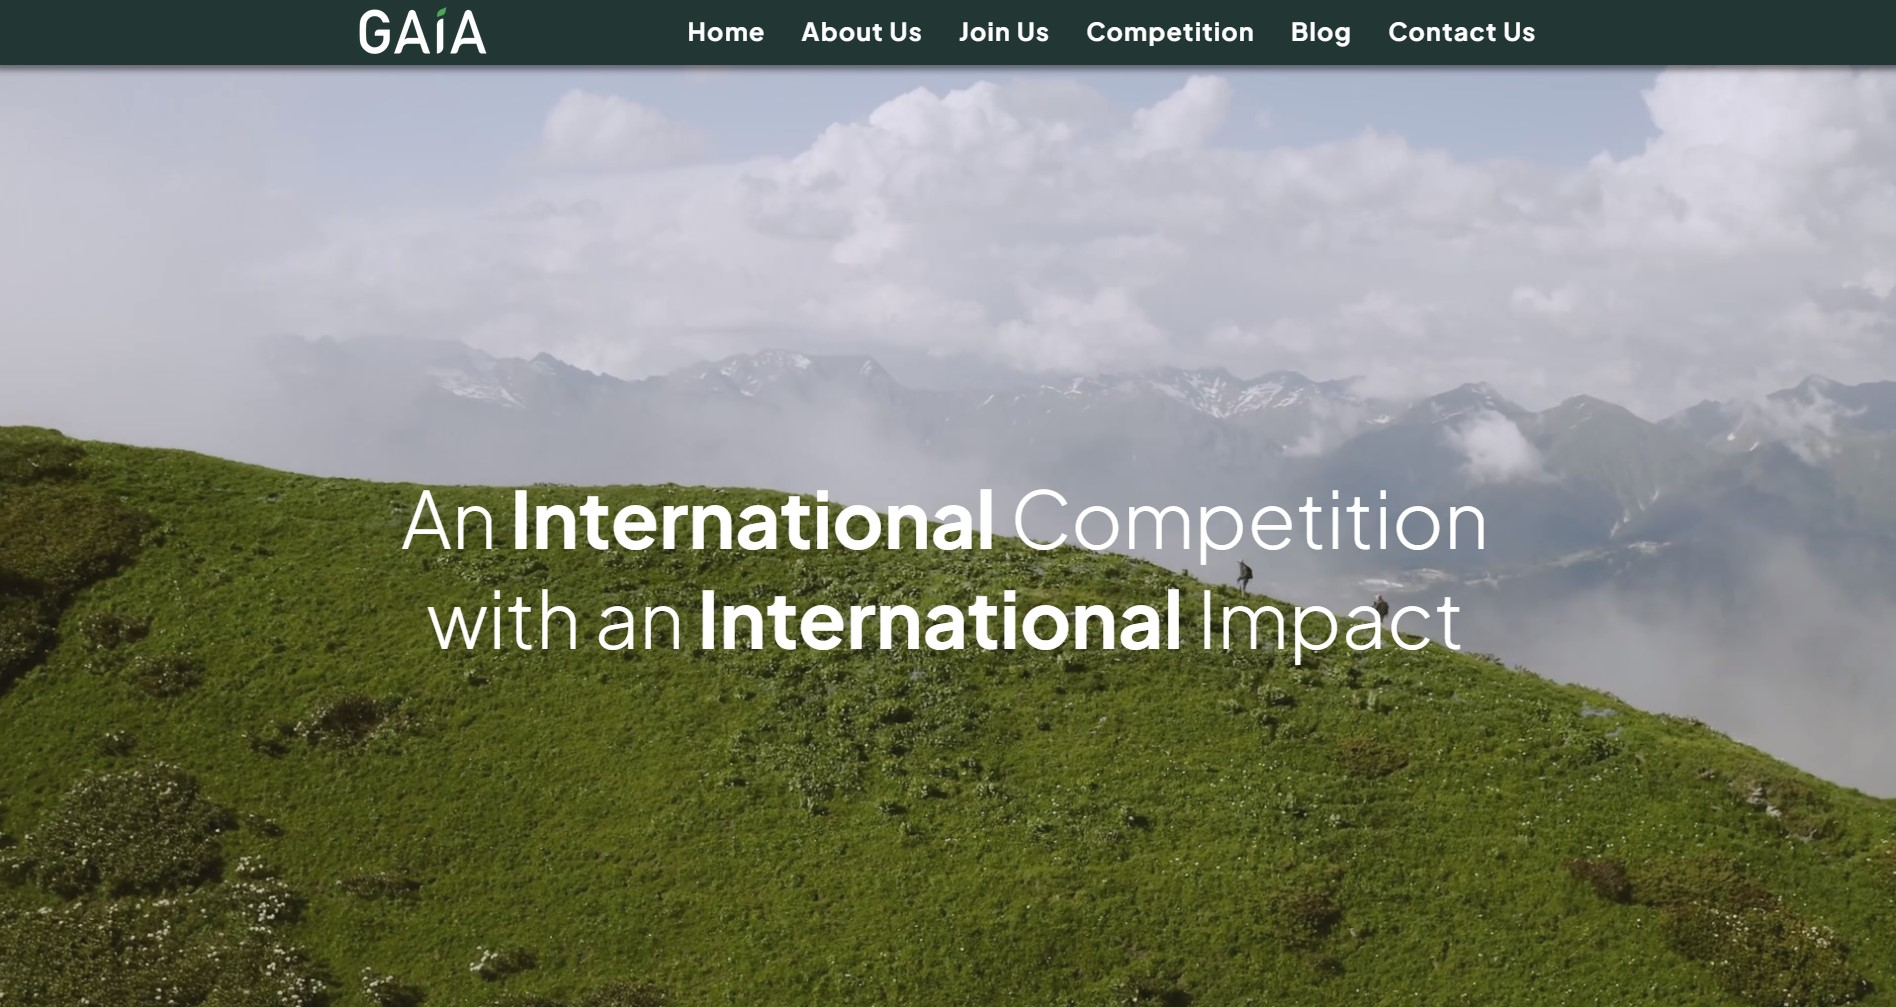
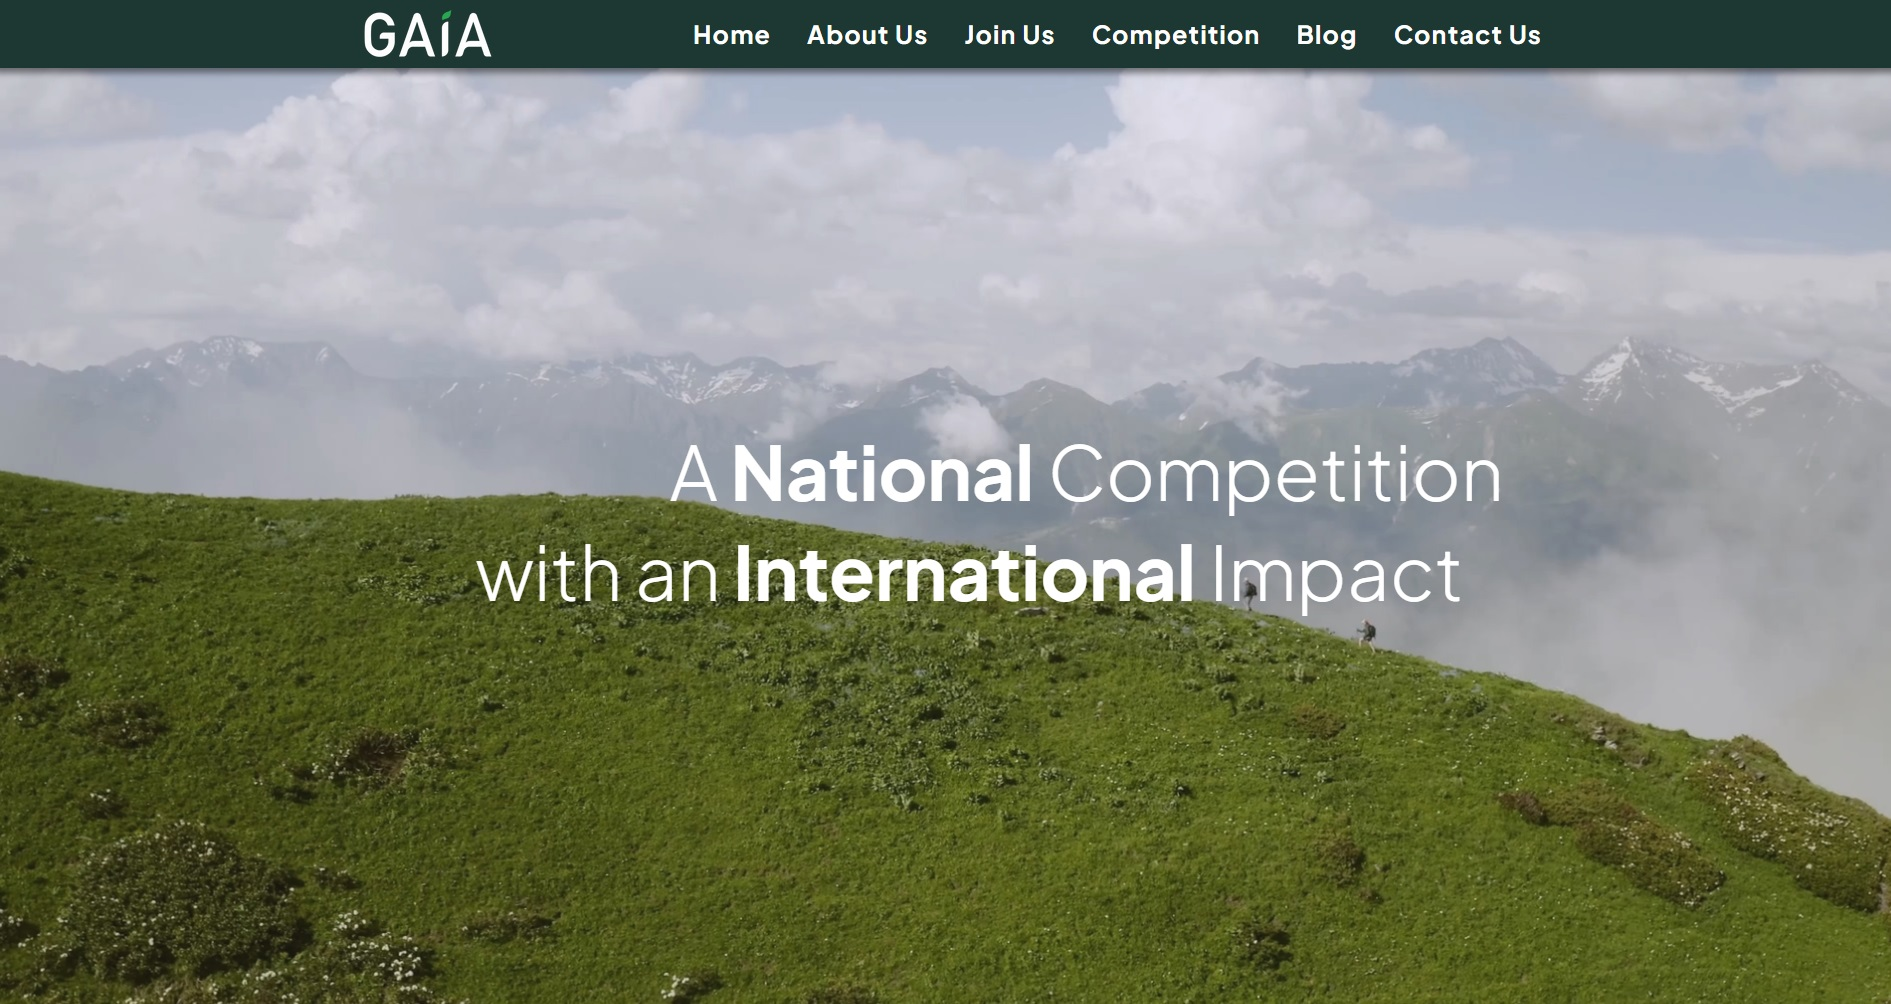
Minor Improvements and Optimization

diff --git a/style.css b/style.css
@@ -85,17 +85,17 @@ div {
 
 @keyframes backgroundMotion {
   0% {
-    background-position: 50% 85%;
+    background-position: 50% 72%;
     background-size: 100%;
   }
 
   50% {
-    background-position: 50% 67%;
+    background-position: 50% 60%;
     background-size: 115%;
   }
 
   100% {
-    background-position: 50% 85%;
+    background-position: 50% 72%;
     background-size: 100%;
   }
 }
@@ -183,7 +183,7 @@ html {
   animation: backgroundMotion 75s linear infinite;
   -webkit-animation: backgroundMotion 75s linear infinite;
   backface-visibility: none;
-  -webkit-backface-visibility:none; 
+  -webkit-backface-visibility:none;
   -webkit-transform: translate3d(0, 0, 0);
   transform: translate3d(0, 0, 0);
 }
@@ -331,7 +331,11 @@ iframe {
 }
 
 #content{
-  max-width: 75vw;
+  margin: 0 auto;
+}
+
+#content .sectionBox{
+  max-width: 1600px;
   margin: 0 auto;
 }
 
@@ -470,8 +474,8 @@ iframe {
     font-size: 1.25vw;
     padding: 0.5vw;
     padding-left: 0.75vw;
-    bottom: 1vw;
-    right: 1vw;
+    /* bottom: 1vw; */
+    /* right: 1vw; */
     padding-right: 0.75vw;
   }
 

diff --git a/index.html b/index.html
@@ -103,7 +103,6 @@
     <br>
 
     <div class="imageContainer">
-      <!-- <div class="perspective-container"> -->
       <img class="image shiny" src="images/gaia.jpg">
       <a href="https://gaiacompetition.com" target="_blank">
         <div id="viewWebsite" class="sectionBox">View
